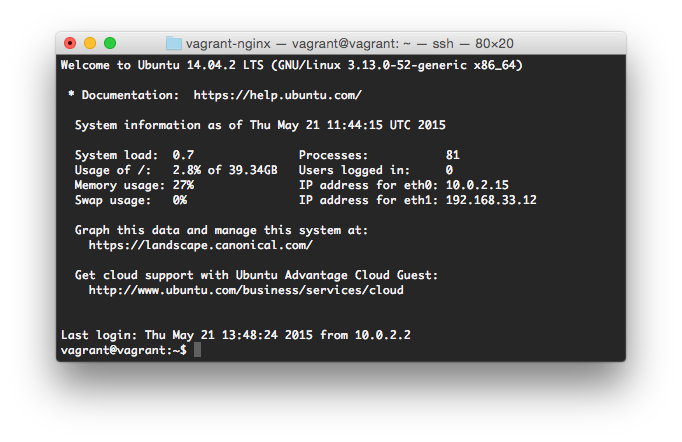
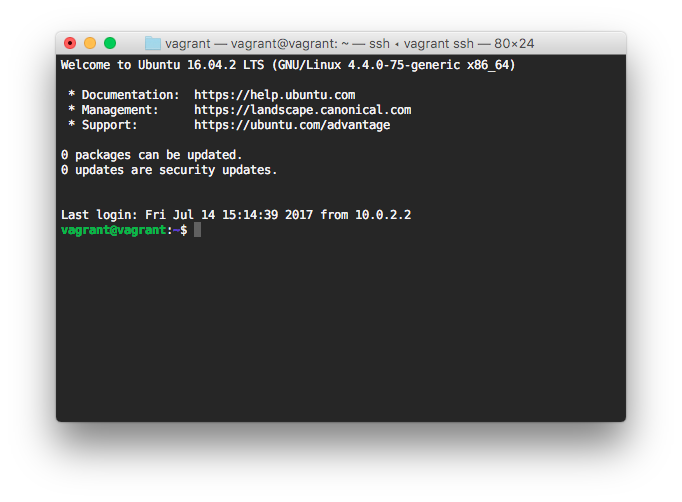
Upgrade the base Vagrant box to Ubuntu 16.04

Changed region(s): [[0.0616, 0.0588, 0.9238, 0.4706], [0.0616, 0.7353, 0.9238, 0.8529], [0.0924, 0.5, 0.6466, 0.6765]]

diff --git a/README.md b/README.md
@@ -1,5 +1,5 @@
 # Vagrant Setup
-This repository contains a [Vagrantfile](https://vagrantup.com/) for a Ubuntu 14.04 VirtualBox host and [Ansible](http://ansible.com/) playbooks for a WordPress-ready LEMP development environment. The default `playbook.yml` installs the most recent versions of NGiNX, PHP-FPM and MariaDB. It also installs and configures [WP-CLI](https://wp-cli.org) to manage the virtual WordPress sites from the command line and [Composer](https://getcomposer.org) for PHP dependency management.
+This repository contains a [Vagrantfile](https://vagrantup.com/) for a Ubuntu 16.04 VirtualBox host and [Ansible](http://ansible.com/) playbooks for a WordPress-ready LEMP development environment. The default `playbook.yml` installs the most recent versions of NGiNX, PHP-FPM and MariaDB. It also installs and configures [WP-CLI](https://wp-cli.org) to manage the virtual WordPress sites from the command line and [Composer](https://getcomposer.org) for PHP dependency management.
 
 ![Screen shot showing a terminal window logged in to the Vagrant box via SSH](screenshot.png)
 
@@ -30,7 +30,7 @@ common_apt_upgrade: true
 * Enable support for [Let's Encrypt](https://letsencrypt.org) and automatic renewal of certificates.
 
 #### References and Guidelines
-* [DigitalOcean's Initial Server Setup](https://www.digitalocean.com/community/tutorials/initial-server-setup-with-ubuntu-14-04)
+* [DigitalOcean's Initial Server Setup](https://www.digitalocean.com/community/tutorials/initial-server-setup-with-ubuntu-16-04)
 * [DigitalOcean's Additional Checklist ](https://www.digitalocean.com/community/tutorials/additional-recommended-steps-for-new-ubuntu-14-04-servers)
-* [DigitalOcean's LEMP-setup Guide](https://www.digitalocean.com/community/tutorials/how-to-install-linux-nginx-mysql-php-lemp-stack-on-ubuntu-14-04)
-* [DigitalOcean's guide to Let's Encrypt](https://www.digitalocean.com/community/tutorials/how-to-secure-nginx-with-let-s-encrypt-on-ubuntu-14-04)
+* [DigitalOcean's LEMP-setup Guide](https://www.digitalocean.com/community/tutorials/how-to-install-linux-nginx-mysql-php-lemp-stack-in-ubuntu-16-04)
+* [DigitalOcean's guide to Let's Encrypt](https://www.digitalocean.com/community/tutorials/how-to-secure-nginx-with-let-s-encrypt-on-ubuntu-16-04)
